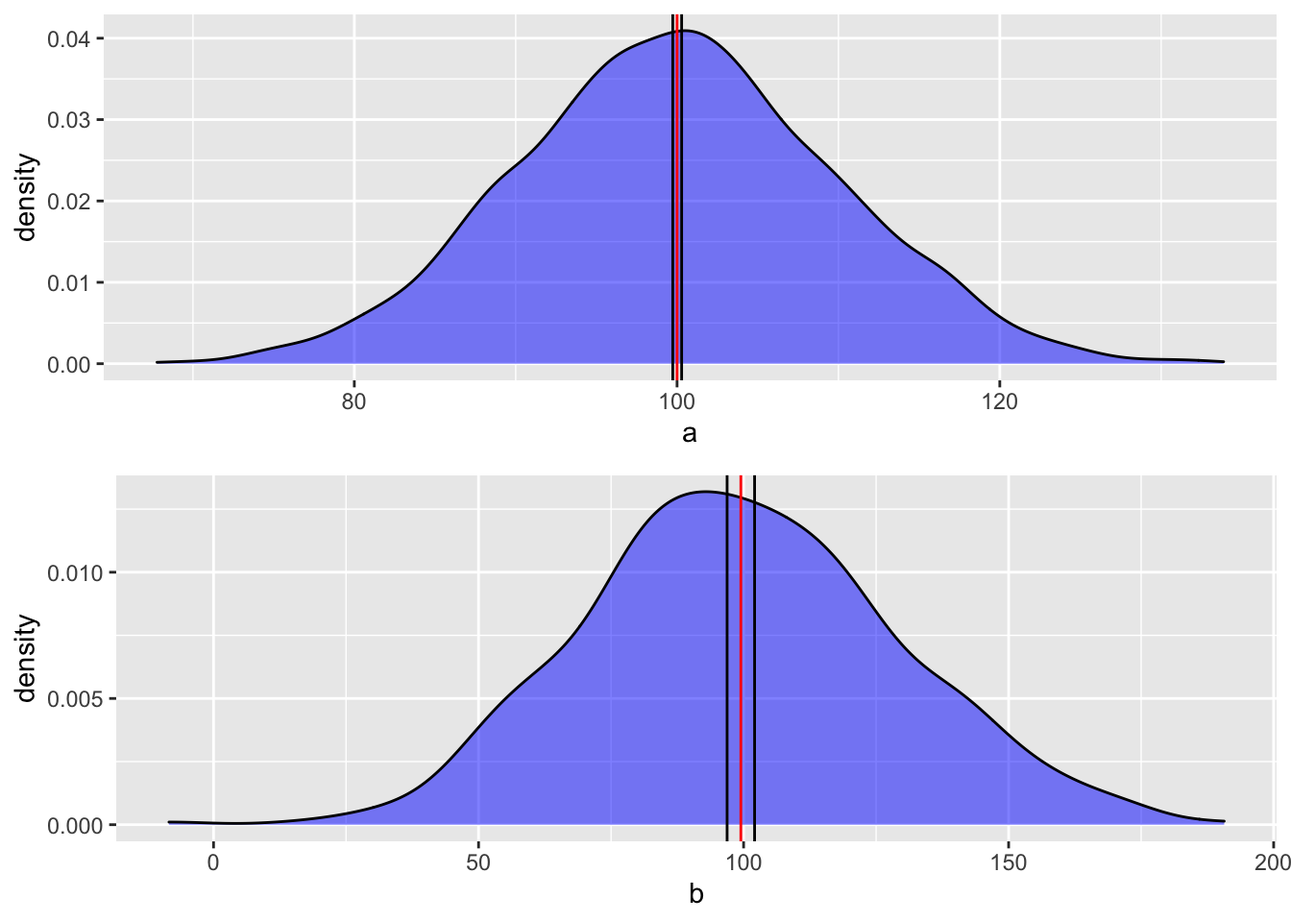
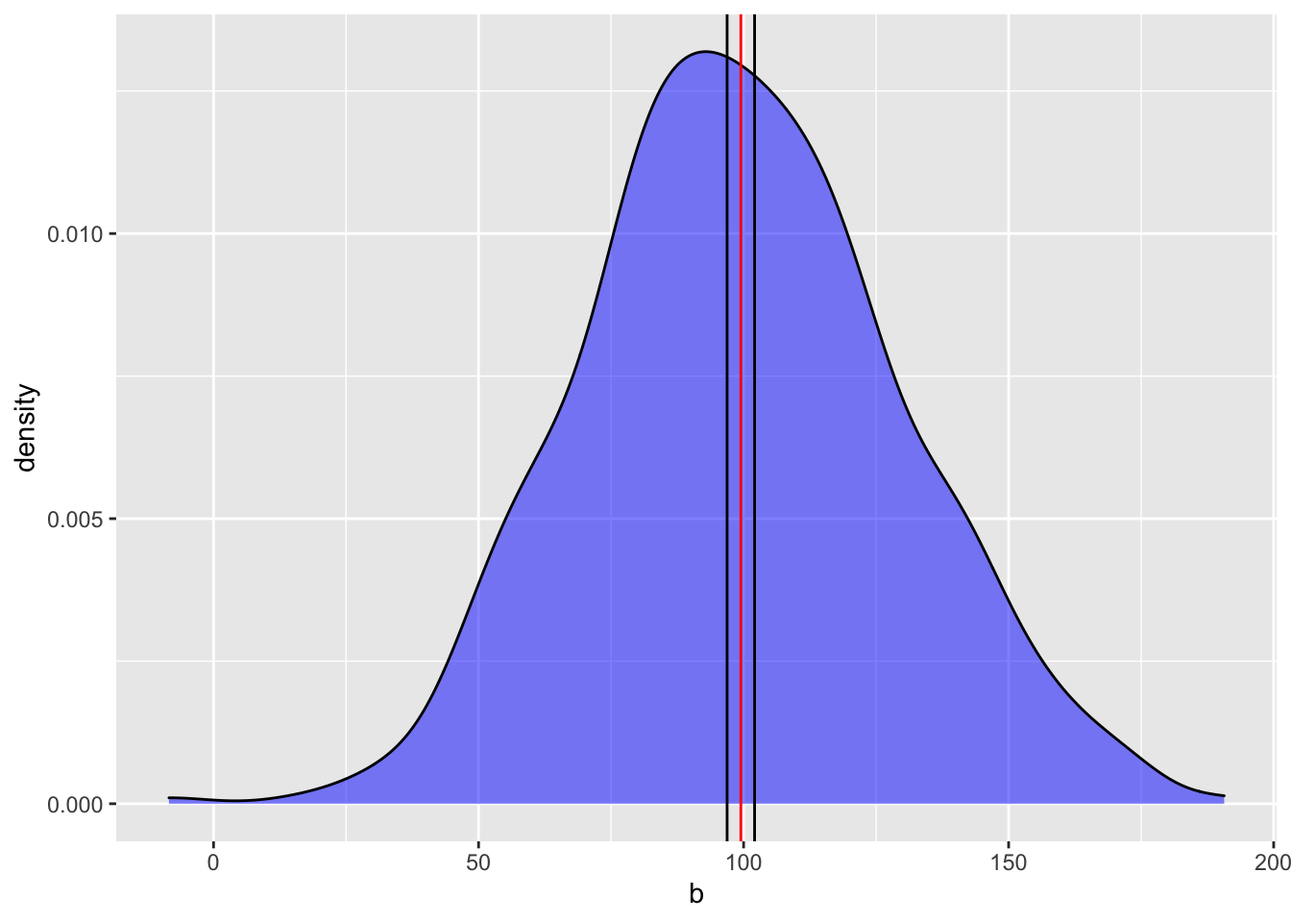
indep chunk

diff --git a/T4_Medidas_dispersión.html b/T4_Medidas_dispersión.html
@@ -891,7 +891,8 @@ El proceso de Investigación
 <span id="cb58-4"><a href="#cb58-4"></a><span class="st">  </span><span class="kw">geom_vline</span>(<span class="kw">aes</span>(<span class="dt">xintercept =</span> <span class="dv">100</span>), <span class="dt">colour=</span><span class="st">&quot;red&quot;</span>)<span class="op">+</span></span>
 <span id="cb58-5"><a href="#cb58-5"></a><span class="st">  </span><span class="kw">geom_vline</span>(<span class="kw">aes</span>(<span class="dt">xintercept =</span> Limite_inferior_a), <span class="dt">colour=</span><span class="st">&quot;black&quot;</span>)<span class="op">+</span></span>
 <span id="cb58-6"><a href="#cb58-6"></a><span class="st">  </span><span class="kw">geom_vline</span>(<span class="kw">aes</span>(<span class="dt">xintercept =</span> Limite_superior_a), <span class="dt">colour=</span><span class="st">&quot;black&quot;</span>)</span>
-<span id="cb58-7"><a href="#cb58-7"></a><span class="co">#CIa</span></span></code></pre></div>
+<span id="cb58-7"><a href="#cb58-7"></a>CIa</span></code></pre></div>
+<p><img src="T4_Medidas_dispersio%CC%81n_files/figure-html/ch17-1.png" width="60%" /></p>
 <div class="sourceCode" id="cb59"><pre class="sourceCode r"><code class="sourceCode r"><span id="cb59-1"><a href="#cb59-1"></a>CIb=<span class="kw">ggplot</span>(b, <span class="kw">aes</span>(b))<span class="op">+</span></span>
 <span id="cb59-2"><a href="#cb59-2"></a><span class="st">  </span><span class="kw">geom_density</span>(<span class="dt">fill=</span><span class="st">&quot;blue&quot;</span>, <span class="dt">alpha=</span>.<span class="dv">5</span>)<span class="op">+</span></span>
 <span id="cb59-3"><a href="#cb59-3"></a><span class="st">  </span><span class="kw">theme</span>(<span class="dt">legend.position =</span> <span class="st">&quot;none&quot;</span>) <span class="op">+</span></span>
@@ -900,10 +901,10 @@ El proceso de Investigación
 <span id="cb59-6"><a href="#cb59-6"></a><span class="st">  </span><span class="kw">geom_vline</span>(<span class="kw">aes</span>(<span class="dt">xintercept =</span> Limite_superior_b), <span class="dt">colour=</span><span class="st">&quot;black&quot;</span>)</span>
 <span id="cb59-7"><a href="#cb59-7"></a></span>
 <span id="cb59-8"><a href="#cb59-8"></a></span>
-<span id="cb59-9"><a href="#cb59-9"></a><span class="co">#CIb</span></span>
-<span id="cb59-10"><a href="#cb59-10"></a></span>
-<span id="cb59-11"><a href="#cb59-11"></a>gridExtra<span class="op">::</span><span class="kw">grid.arrange</span>(CIa,CIb, <span class="dt">ncol=</span><span class="dv">1</span>)</span></code></pre></div>
+<span id="cb59-9"><a href="#cb59-9"></a>CIb</span></code></pre></div>
 <p><img src="T4_Medidas_dispersio%CC%81n_files/figure-html/unnamed-chunk-2-1.png" width="60%" style="display: block; margin: auto;" /></p>
+<div class="sourceCode" id="cb60"><pre class="sourceCode r"><code class="sourceCode r"><span id="cb60-1"><a href="#cb60-1"></a>gridExtra<span class="op">::</span><span class="kw">grid.arrange</span>(CIa,CIb, <span class="dt">ncol=</span><span class="dv">1</span>)</span></code></pre></div>
+<p><img src="T4_Medidas_dispersio%CC%81n_files/figure-html/unnamed-chunk-3-1.png" width="672" /></p>
 <hr />
 <div id="el-intervalos-de-confianza-de-los-datos" class="section level2">
 <h2>El intervalos de confianza de los datos</h2>
@@ -953,53 +954,53 @@ El proceso de Investigación
 <h2>El intervalo de confianza de colesterol en los Iranis</h2>
 <p>Comenzamos con evaluar el intervalo de confianza de los datos con datos teóricos. Por ejemplo el nivel de colesterol en el plasma varia en los humanos. En el siguiente articulo <em>Plasma total cholesterol level and some related factors in northern Iranian people</em>. <a href="https://www.ncbi.nlm.nih.gov/pmc/articles/PMC3783780/" class="uri">https://www.ncbi.nlm.nih.gov/pmc/articles/PMC3783780/</a></p>
 <p>Usamos los datos para las mujeres con un promedio de 196.7 y una desviación estándar de 39.11. Con estos datos asumimos que esto provienen de una distribución normal y que representa las mujeres en resto del mundo.</p>
-<div class="sourceCode" id="cb60"><pre class="sourceCode r"><code class="sourceCode r"><span id="cb60-1"><a href="#cb60-1"></a><span class="co"># Creamos un conjunto de datos para los análisis</span></span>
-<span id="cb60-2"><a href="#cb60-2"></a></span>
-<span id="cb60-3"><a href="#cb60-3"></a>Col=<span class="kw">rnorm</span>(<span class="dv">200000</span>, <span class="fl">196.7</span>, <span class="fl">39.11</span>)</span>
-<span id="cb60-4"><a href="#cb60-4"></a>Col=<span class="kw">data_frame</span>(Col)</span>
-<span id="cb60-5"><a href="#cb60-5"></a></span>
-<span id="cb60-6"><a href="#cb60-6"></a>promCol=Col<span class="op">%&gt;%</span></span>
-<span id="cb60-7"><a href="#cb60-7"></a><span class="st">  </span><span class="kw">summarise</span>(<span class="dt">Mean=</span><span class="kw">mean</span>(Col))</span>
-<span id="cb60-8"><a href="#cb60-8"></a>  </span>
-<span id="cb60-9"><a href="#cb60-9"></a>sdCol=Col<span class="op">%&gt;%</span></span>
-<span id="cb60-10"><a href="#cb60-10"></a><span class="st">  </span><span class="kw">summarise</span>(<span class="dt">sd=</span><span class="kw">sd</span>(Col))</span></code></pre></div>
-<p>Visualizar los datos: Uds conoce su nivel de colesterol total? Donde se encuentra en esta distribución? Se encuentra en el 68%? Nota que la suma de todos los porcentaje es igual a 100%.</p>
-<div class="sourceCode" id="cb61"><pre class="sourceCode r"><code class="sourceCode r"><span id="cb61-1"><a href="#cb61-1"></a><span class="kw">library</span>(grid)</span>
-<span id="cb61-2"><a href="#cb61-2"></a><span class="kw">library</span>(gtable)</span>
-<span id="cb61-3"><a href="#cb61-3"></a></span>
-<span id="cb61-4"><a href="#cb61-4"></a>lims &lt;-<span class="st"> </span><span class="kw">c</span>(<span class="dv">28</span>, <span class="dv">350</span>)</span>
+<div class="sourceCode" id="cb61"><pre class="sourceCode r"><code class="sourceCode r"><span id="cb61-1"><a href="#cb61-1"></a><span class="co"># Creamos un conjunto de datos para los análisis</span></span>
+<span id="cb61-2"><a href="#cb61-2"></a></span>
+<span id="cb61-3"><a href="#cb61-3"></a>Col=<span class="kw">rnorm</span>(<span class="dv">200000</span>, <span class="fl">196.7</span>, <span class="fl">39.11</span>)</span>
+<span id="cb61-4"><a href="#cb61-4"></a>Col=<span class="kw">data_frame</span>(Col)</span>
 <span id="cb61-5"><a href="#cb61-5"></a></span>
-<span id="cb61-6"><a href="#cb61-6"></a>breaks.major2&lt;-<span class="kw">c</span>(<span class="dv">0</span>, <span class="dv">79</span>, <span class="dv">118</span>, <span class="dv">157</span>, </span>
-<span id="cb61-7"><a href="#cb61-7"></a>                 <span class="dv">197</span>, <span class="dv">235</span>, <span class="dv">274</span>, <span class="dv">314</span>)</span>
-<span id="cb61-8"><a href="#cb61-8"></a>breaks.minor2=<span class="st"> </span><span class="kw">c</span>(<span class="dv">79</span>, <span class="dv">118</span>, <span class="dv">157</span>,<span class="dv">197</span>, </span>
-<span id="cb61-9"><a href="#cb61-9"></a>                <span class="dv">235</span>, <span class="dv">274</span>, <span class="dv">314</span>,<span class="dv">379</span>)</span>
-<span id="cb61-10"><a href="#cb61-10"></a>breaks.comb &lt;-<span class="st"> </span><span class="kw">sort</span>(<span class="kw">c</span>(breaks.major2, breaks.minor2<span class="fl">-1.0E-6</span>))</span>
-<span id="cb61-11"><a href="#cb61-11"></a>labels.comb&lt;-<span class="st"> </span><span class="kw">c</span>(<span class="dv">0</span>, <span class="dv">79</span>, <span class="st">&quot;</span><span class="ch">\n</span><span class="st">-3sd&quot;</span>, <span class="dv">118</span>, <span class="st">&quot;</span><span class="ch">\n</span><span class="st">-2sd&quot;</span>, <span class="dv">157</span>, <span class="st">&quot;</span><span class="ch">\n</span><span class="st">-1sd&quot;</span>, <span class="dv">197</span>, <span class="st">&quot;</span><span class="ch">\n</span><span class="st">promedio&quot;</span>,</span>
-<span id="cb61-12"><a href="#cb61-12"></a>                 <span class="dv">235</span>,  <span class="st">&quot;</span><span class="ch">\n</span><span class="st">+1sd&quot;</span>,<span class="dv">274</span>, <span class="st">&quot;</span><span class="ch">\n</span><span class="st">+2sd&quot;</span>, <span class="dv">314</span>,<span class="st">&quot;</span><span class="ch">\n</span><span class="st">+3sd&quot;</span>, <span class="dv">379</span>)</span>
-<span id="cb61-13"><a href="#cb61-13"></a>Col<span class="op">%&gt;%</span></span>
-<span id="cb61-14"><a href="#cb61-14"></a><span class="kw">ggplot</span>(<span class="kw">aes</span>(Col))<span class="op">+</span></span>
-<span id="cb61-15"><a href="#cb61-15"></a><span class="st">  </span><span class="kw">geom_density</span>(<span class="dt">fill=</span><span class="st">&quot;blue&quot;</span>, <span class="dt">colour=</span><span class="st">&quot;white&quot;</span>,<span class="dt">alpha=</span>.<span class="dv">5</span>)<span class="op">+</span></span>
-<span id="cb61-16"><a href="#cb61-16"></a><span class="st">  </span><span class="kw">theme</span>(<span class="dt">legend.position =</span> <span class="st">&quot;none&quot;</span>)<span class="op">+</span></span>
-<span id="cb61-17"><a href="#cb61-17"></a><span class="st">  </span><span class="kw">geom_vline</span>(<span class="dt">xintercept=</span><span class="kw">as.numeric</span>(promCol), <span class="dt">colour=</span><span class="st">&quot;black&quot;</span>)<span class="op">+</span></span>
-<span id="cb61-18"><a href="#cb61-18"></a><span class="st">  </span><span class="kw">geom_vline</span>(<span class="kw">aes</span>(<span class="dt">xintercept =</span> <span class="kw">as.numeric</span>(promCol<span class="op">-</span>sdCol)), <span class="dt">colour=</span><span class="st">&quot;blue&quot;</span>)<span class="op">+</span></span>
-<span id="cb61-19"><a href="#cb61-19"></a><span class="st">  </span><span class="kw">geom_vline</span>(<span class="kw">aes</span>(<span class="dt">xintercept =</span> <span class="kw">as.numeric</span>(promCol<span class="op">+</span>sdCol)), <span class="dt">colour=</span><span class="st">&quot;blue&quot;</span>)<span class="op">+</span></span>
-<span id="cb61-20"><a href="#cb61-20"></a><span class="kw">geom_vline</span>(<span class="kw">aes</span>(<span class="dt">xintercept =</span> <span class="kw">as.numeric</span>(promCol<span class="dv">-2</span><span class="op">*</span>sdCol)), <span class="dt">colour=</span><span class="st">&quot;red&quot;</span>)<span class="op">+</span></span>
-<span id="cb61-21"><a href="#cb61-21"></a><span class="st">  </span><span class="kw">geom_vline</span>(<span class="kw">aes</span>(<span class="dt">xintercept =</span> <span class="kw">as.numeric</span>(promCol<span class="op">+</span><span class="dv">2</span><span class="op">*</span>sdCol)), <span class="dt">colour=</span><span class="st">&quot;red&quot;</span>)<span class="op">+</span></span>
-<span id="cb61-22"><a href="#cb61-22"></a><span class="kw">geom_vline</span>(<span class="kw">aes</span>(<span class="dt">xintercept =</span> <span class="kw">as.numeric</span>(promCol<span class="dv">-3</span><span class="op">*</span>sdCol)), <span class="dt">colour=</span><span class="st">&quot;orange&quot;</span>)<span class="op">+</span></span>
-<span id="cb61-23"><a href="#cb61-23"></a><span class="st">  </span><span class="kw">geom_vline</span>(<span class="kw">aes</span>(<span class="dt">xintercept =</span> <span class="kw">as.numeric</span>(promCol<span class="op">+</span><span class="dv">3</span><span class="op">*</span>sdCol)), <span class="dt">colour=</span><span class="st">&quot;orange&quot;</span>)<span class="op">+</span><span class="st"> </span><span class="kw">scale_x_continuous</span>(<span class="dt">expand=</span><span class="kw">c</span>(<span class="dv">0</span>,<span class="dv">0</span>), <span class="dt">limit=</span>lims, </span>
-<span id="cb61-24"><a href="#cb61-24"></a>                                <span class="dt">minor_breaks=</span>breaks.minor2, </span>
-<span id="cb61-25"><a href="#cb61-25"></a>                                <span class="dt">breaks=</span>breaks.comb,</span>
-<span id="cb61-26"><a href="#cb61-26"></a>                                <span class="dt">labels=</span>labels.comb)<span class="op">+</span></span>
-<span id="cb61-27"><a href="#cb61-27"></a><span class="st">  </span><span class="kw">xlab</span>(<span class="st">&quot;Nivel de colesterol&quot;</span>)<span class="op">+</span></span>
-<span id="cb61-28"><a href="#cb61-28"></a><span class="st">  </span><span class="kw">annotate</span>(<span class="st">&quot;text&quot;</span>, <span class="dt">x=</span><span class="dv">180</span>, <span class="dt">y =</span> <span class="fl">.004</span>, <span class="dt">label=</span><span class="st">&quot;34.1%&quot;</span>)<span class="op">+</span></span>
-<span id="cb61-29"><a href="#cb61-29"></a><span class="st">  </span><span class="kw">annotate</span>(<span class="st">&quot;text&quot;</span>, <span class="dt">x=</span><span class="dv">210</span>, <span class="dt">y =</span> <span class="fl">.004</span>, <span class="dt">label=</span><span class="st">&quot;34.1%&quot;</span>)<span class="op">+</span></span>
-<span id="cb61-30"><a href="#cb61-30"></a><span class="st">  </span><span class="kw">annotate</span>(<span class="st">&quot;text&quot;</span>, <span class="dt">x=</span><span class="dv">140</span>, <span class="dt">y =</span> <span class="fl">.002</span>, <span class="dt">label=</span><span class="st">&quot;13.6%&quot;</span>)<span class="op">+</span></span>
-<span id="cb61-31"><a href="#cb61-31"></a><span class="st">  </span><span class="kw">annotate</span>(<span class="st">&quot;text&quot;</span>, <span class="dt">x=</span><span class="dv">250</span>, <span class="dt">y =</span> <span class="fl">.002</span>, <span class="dt">label=</span><span class="st">&quot;13.6%&quot;</span>)<span class="op">+</span></span>
-<span id="cb61-32"><a href="#cb61-32"></a><span class="st">  </span><span class="kw">annotate</span>(<span class="st">&quot;text&quot;</span>, <span class="dt">x=</span><span class="dv">90</span>, <span class="dt">y =</span> <span class="fl">.001</span>, <span class="dt">label=</span><span class="st">&quot;2.1%&quot;</span>)<span class="op">+</span></span>
-<span id="cb61-33"><a href="#cb61-33"></a><span class="st">  </span><span class="kw">annotate</span>(<span class="st">&quot;text&quot;</span>, <span class="dt">x=</span><span class="dv">295</span>, <span class="dt">y =</span> <span class="fl">.001</span>, <span class="dt">label=</span><span class="st">&quot;2.1%&quot;</span>)<span class="op">+</span></span>
-<span id="cb61-34"><a href="#cb61-34"></a><span class="st">  </span><span class="kw">annotate</span>(<span class="st">&quot;text&quot;</span>, <span class="dt">x=</span><span class="dv">70</span>, <span class="dt">y =</span> <span class="fl">.0005</span>, <span class="dt">label=</span><span class="st">&quot;0.1%&quot;</span>)<span class="op">+</span></span>
-<span id="cb61-35"><a href="#cb61-35"></a><span class="st">  </span><span class="kw">annotate</span>(<span class="st">&quot;text&quot;</span>, <span class="dt">x=</span><span class="dv">330</span>, <span class="dt">y =</span> <span class="fl">.0005</span>, <span class="dt">label=</span><span class="st">&quot;0.1%&quot;</span>)</span></code></pre></div>
-<p><img src="T4_Medidas_dispersio%CC%81n_files/figure-html/unnamed-chunk-4-1.png" width="60%" /></p>
+<span id="cb61-6"><a href="#cb61-6"></a>promCol=Col<span class="op">%&gt;%</span></span>
+<span id="cb61-7"><a href="#cb61-7"></a><span class="st">  </span><span class="kw">summarise</span>(<span class="dt">Mean=</span><span class="kw">mean</span>(Col))</span>
+<span id="cb61-8"><a href="#cb61-8"></a>  </span>
+<span id="cb61-9"><a href="#cb61-9"></a>sdCol=Col<span class="op">%&gt;%</span></span>
+<span id="cb61-10"><a href="#cb61-10"></a><span class="st">  </span><span class="kw">summarise</span>(<span class="dt">sd=</span><span class="kw">sd</span>(Col))</span></code></pre></div>
+<p>Visualizar los datos: Uds conoce su nivel de colesterol total? Donde se encuentra en esta distribución? Se encuentra en el 68%? Nota que la suma de todos los porcentaje es igual a 100%.</p>
+<div class="sourceCode" id="cb62"><pre class="sourceCode r"><code class="sourceCode r"><span id="cb62-1"><a href="#cb62-1"></a><span class="kw">library</span>(grid)</span>
+<span id="cb62-2"><a href="#cb62-2"></a><span class="kw">library</span>(gtable)</span>
+<span id="cb62-3"><a href="#cb62-3"></a></span>
+<span id="cb62-4"><a href="#cb62-4"></a>lims &lt;-<span class="st"> </span><span class="kw">c</span>(<span class="dv">28</span>, <span class="dv">350</span>)</span>
+<span id="cb62-5"><a href="#cb62-5"></a></span>
+<span id="cb62-6"><a href="#cb62-6"></a>breaks.major2&lt;-<span class="kw">c</span>(<span class="dv">0</span>, <span class="dv">79</span>, <span class="dv">118</span>, <span class="dv">157</span>, </span>
+<span id="cb62-7"><a href="#cb62-7"></a>                 <span class="dv">197</span>, <span class="dv">235</span>, <span class="dv">274</span>, <span class="dv">314</span>)</span>
+<span id="cb62-8"><a href="#cb62-8"></a>breaks.minor2=<span class="st"> </span><span class="kw">c</span>(<span class="dv">79</span>, <span class="dv">118</span>, <span class="dv">157</span>,<span class="dv">197</span>, </span>
+<span id="cb62-9"><a href="#cb62-9"></a>                <span class="dv">235</span>, <span class="dv">274</span>, <span class="dv">314</span>,<span class="dv">379</span>)</span>
+<span id="cb62-10"><a href="#cb62-10"></a>breaks.comb &lt;-<span class="st"> </span><span class="kw">sort</span>(<span class="kw">c</span>(breaks.major2, breaks.minor2<span class="fl">-1.0E-6</span>))</span>
+<span id="cb62-11"><a href="#cb62-11"></a>labels.comb&lt;-<span class="st"> </span><span class="kw">c</span>(<span class="dv">0</span>, <span class="dv">79</span>, <span class="st">&quot;</span><span class="ch">\n</span><span class="st">-3sd&quot;</span>, <span class="dv">118</span>, <span class="st">&quot;</span><span class="ch">\n</span><span class="st">-2sd&quot;</span>, <span class="dv">157</span>, <span class="st">&quot;</span><span class="ch">\n</span><span class="st">-1sd&quot;</span>, <span class="dv">197</span>, <span class="st">&quot;</span><span class="ch">\n</span><span class="st">promedio&quot;</span>,</span>
+<span id="cb62-12"><a href="#cb62-12"></a>                 <span class="dv">235</span>,  <span class="st">&quot;</span><span class="ch">\n</span><span class="st">+1sd&quot;</span>,<span class="dv">274</span>, <span class="st">&quot;</span><span class="ch">\n</span><span class="st">+2sd&quot;</span>, <span class="dv">314</span>,<span class="st">&quot;</span><span class="ch">\n</span><span class="st">+3sd&quot;</span>, <span class="dv">379</span>)</span>
+<span id="cb62-13"><a href="#cb62-13"></a>Col<span class="op">%&gt;%</span></span>
+<span id="cb62-14"><a href="#cb62-14"></a><span class="kw">ggplot</span>(<span class="kw">aes</span>(Col))<span class="op">+</span></span>
+<span id="cb62-15"><a href="#cb62-15"></a><span class="st">  </span><span class="kw">geom_density</span>(<span class="dt">fill=</span><span class="st">&quot;blue&quot;</span>, <span class="dt">colour=</span><span class="st">&quot;white&quot;</span>,<span class="dt">alpha=</span>.<span class="dv">5</span>)<span class="op">+</span></span>
+<span id="cb62-16"><a href="#cb62-16"></a><span class="st">  </span><span class="kw">theme</span>(<span class="dt">legend.position =</span> <span class="st">&quot;none&quot;</span>)<span class="op">+</span></span>
+<span id="cb62-17"><a href="#cb62-17"></a><span class="st">  </span><span class="kw">geom_vline</span>(<span class="dt">xintercept=</span><span class="kw">as.numeric</span>(promCol), <span class="dt">colour=</span><span class="st">&quot;black&quot;</span>)<span class="op">+</span></span>
+<span id="cb62-18"><a href="#cb62-18"></a><span class="st">  </span><span class="kw">geom_vline</span>(<span class="kw">aes</span>(<span class="dt">xintercept =</span> <span class="kw">as.numeric</span>(promCol<span class="op">-</span>sdCol)), <span class="dt">colour=</span><span class="st">&quot;blue&quot;</span>)<span class="op">+</span></span>
+<span id="cb62-19"><a href="#cb62-19"></a><span class="st">  </span><span class="kw">geom_vline</span>(<span class="kw">aes</span>(<span class="dt">xintercept =</span> <span class="kw">as.numeric</span>(promCol<span class="op">+</span>sdCol)), <span class="dt">colour=</span><span class="st">&quot;blue&quot;</span>)<span class="op">+</span></span>
+<span id="cb62-20"><a href="#cb62-20"></a><span class="kw">geom_vline</span>(<span class="kw">aes</span>(<span class="dt">xintercept =</span> <span class="kw">as.numeric</span>(promCol<span class="dv">-2</span><span class="op">*</span>sdCol)), <span class="dt">colour=</span><span class="st">&quot;red&quot;</span>)<span class="op">+</span></span>
+<span id="cb62-21"><a href="#cb62-21"></a><span class="st">  </span><span class="kw">geom_vline</span>(<span class="kw">aes</span>(<span class="dt">xintercept =</span> <span class="kw">as.numeric</span>(promCol<span class="op">+</span><span class="dv">2</span><span class="op">*</span>sdCol)), <span class="dt">colour=</span><span class="st">&quot;red&quot;</span>)<span class="op">+</span></span>
+<span id="cb62-22"><a href="#cb62-22"></a><span class="kw">geom_vline</span>(<span class="kw">aes</span>(<span class="dt">xintercept =</span> <span class="kw">as.numeric</span>(promCol<span class="dv">-3</span><span class="op">*</span>sdCol)), <span class="dt">colour=</span><span class="st">&quot;orange&quot;</span>)<span class="op">+</span></span>
+<span id="cb62-23"><a href="#cb62-23"></a><span class="st">  </span><span class="kw">geom_vline</span>(<span class="kw">aes</span>(<span class="dt">xintercept =</span> <span class="kw">as.numeric</span>(promCol<span class="op">+</span><span class="dv">3</span><span class="op">*</span>sdCol)), <span class="dt">colour=</span><span class="st">&quot;orange&quot;</span>)<span class="op">+</span><span class="st"> </span><span class="kw">scale_x_continuous</span>(<span class="dt">expand=</span><span class="kw">c</span>(<span class="dv">0</span>,<span class="dv">0</span>), <span class="dt">limit=</span>lims, </span>
+<span id="cb62-24"><a href="#cb62-24"></a>                                <span class="dt">minor_breaks=</span>breaks.minor2, </span>
+<span id="cb62-25"><a href="#cb62-25"></a>                                <span class="dt">breaks=</span>breaks.comb,</span>
+<span id="cb62-26"><a href="#cb62-26"></a>                                <span class="dt">labels=</span>labels.comb)<span class="op">+</span></span>
+<span id="cb62-27"><a href="#cb62-27"></a><span class="st">  </span><span class="kw">xlab</span>(<span class="st">&quot;Nivel de colesterol&quot;</span>)<span class="op">+</span></span>
+<span id="cb62-28"><a href="#cb62-28"></a><span class="st">  </span><span class="kw">annotate</span>(<span class="st">&quot;text&quot;</span>, <span class="dt">x=</span><span class="dv">180</span>, <span class="dt">y =</span> <span class="fl">.004</span>, <span class="dt">label=</span><span class="st">&quot;34.1%&quot;</span>)<span class="op">+</span></span>
+<span id="cb62-29"><a href="#cb62-29"></a><span class="st">  </span><span class="kw">annotate</span>(<span class="st">&quot;text&quot;</span>, <span class="dt">x=</span><span class="dv">210</span>, <span class="dt">y =</span> <span class="fl">.004</span>, <span class="dt">label=</span><span class="st">&quot;34.1%&quot;</span>)<span class="op">+</span></span>
+<span id="cb62-30"><a href="#cb62-30"></a><span class="st">  </span><span class="kw">annotate</span>(<span class="st">&quot;text&quot;</span>, <span class="dt">x=</span><span class="dv">140</span>, <span class="dt">y =</span> <span class="fl">.002</span>, <span class="dt">label=</span><span class="st">&quot;13.6%&quot;</span>)<span class="op">+</span></span>
+<span id="cb62-31"><a href="#cb62-31"></a><span class="st">  </span><span class="kw">annotate</span>(<span class="st">&quot;text&quot;</span>, <span class="dt">x=</span><span class="dv">250</span>, <span class="dt">y =</span> <span class="fl">.002</span>, <span class="dt">label=</span><span class="st">&quot;13.6%&quot;</span>)<span class="op">+</span></span>
+<span id="cb62-32"><a href="#cb62-32"></a><span class="st">  </span><span class="kw">annotate</span>(<span class="st">&quot;text&quot;</span>, <span class="dt">x=</span><span class="dv">90</span>, <span class="dt">y =</span> <span class="fl">.001</span>, <span class="dt">label=</span><span class="st">&quot;2.1%&quot;</span>)<span class="op">+</span></span>
+<span id="cb62-33"><a href="#cb62-33"></a><span class="st">  </span><span class="kw">annotate</span>(<span class="st">&quot;text&quot;</span>, <span class="dt">x=</span><span class="dv">295</span>, <span class="dt">y =</span> <span class="fl">.001</span>, <span class="dt">label=</span><span class="st">&quot;2.1%&quot;</span>)<span class="op">+</span></span>
+<span id="cb62-34"><a href="#cb62-34"></a><span class="st">  </span><span class="kw">annotate</span>(<span class="st">&quot;text&quot;</span>, <span class="dt">x=</span><span class="dv">70</span>, <span class="dt">y =</span> <span class="fl">.0005</span>, <span class="dt">label=</span><span class="st">&quot;0.1%&quot;</span>)<span class="op">+</span></span>
+<span id="cb62-35"><a href="#cb62-35"></a><span class="st">  </span><span class="kw">annotate</span>(<span class="st">&quot;text&quot;</span>, <span class="dt">x=</span><span class="dv">330</span>, <span class="dt">y =</span> <span class="fl">.0005</span>, <span class="dt">label=</span><span class="st">&quot;0.1%&quot;</span>)</span></code></pre></div>
+<p><img src="T4_Medidas_dispersio%CC%81n_files/figure-html/unnamed-chunk-5-1.png" width="60%" /></p>
 <hr />
 </div>
 <div id="otro-ejemplo-de-los-intevalos-de-confianzas" class="section level2">
@@ -1007,9 +1008,9 @@ El proceso de Investigación
 <div id="la-altura-de-los-humanos" class="section level3">
 <h3>La altura de los humanos</h3>
 <p>Para evaluar el 95% de intervalo de confianza usaremos datos de la alturas de 500 adultos. Estos datos fueron bajado del siguiente website. Están disponible en debajo la pestaña de “Los Datos”. <a href="https://www.kaggle.com/yersever/500-person-gender-height-weight-bodymassindex/data" class="uri">https://www.kaggle.com/yersever/500-person-gender-height-weight-bodymassindex/data</a></p>
-<div class="sourceCode" id="cb62"><pre class="sourceCode r"><code class="sourceCode r"><span id="cb62-1"><a href="#cb62-1"></a><span class="kw">library</span>(readr)</span>
-<span id="cb62-2"><a href="#cb62-2"></a>Alturas_Humanos &lt;-<span class="st"> </span><span class="kw">read_csv</span>(<span class="st">&quot;Data_files_csv/Alturas_Humanos.csv&quot;</span>)</span>
-<span id="cb62-3"><a href="#cb62-3"></a><span class="kw">gt</span>(<span class="kw">head</span>(Alturas_Humanos))</span></code></pre></div>
+<div class="sourceCode" id="cb63"><pre class="sourceCode r"><code class="sourceCode r"><span id="cb63-1"><a href="#cb63-1"></a><span class="kw">library</span>(readr)</span>
+<span id="cb63-2"><a href="#cb63-2"></a>Alturas_Humanos &lt;-<span class="st"> </span><span class="kw">read_csv</span>(<span class="st">&quot;Data_files_csv/Alturas_Humanos.csv&quot;</span>)</span>
+<span id="cb63-3"><a href="#cb63-3"></a><span class="kw">gt</span>(<span class="kw">head</span>(Alturas_Humanos))</span></code></pre></div>
 <style>html {
   font-family: -apple-system, BlinkMacSystemFont, 'Segoe UI', Roboto, Oxygen, Ubuntu, Cantarell, 'Helvetica Neue', 'Fira Sans', 'Droid Sans', Arial, sans-serif;
 }
@@ -1391,8 +1392,8 @@ El proceso de Investigación
   
 </table></div>
 <p>Calculamos los promedios y las desviación estándar para añadirlos al gráfico</p>
-<div class="sourceCode" id="cb63"><pre class="sourceCode r"><code class="sourceCode r"><span id="cb63-1"><a href="#cb63-1"></a><span class="kw">library</span>(tidyverse)</span>
-<span id="cb63-2"><a href="#cb63-2"></a><span class="kw">head</span>(Alturas_Humanos)</span></code></pre></div>
+<div class="sourceCode" id="cb64"><pre class="sourceCode r"><code class="sourceCode r"><span id="cb64-1"><a href="#cb64-1"></a><span class="kw">library</span>(tidyverse)</span>
+<span id="cb64-2"><a href="#cb64-2"></a><span class="kw">head</span>(Alturas_Humanos)</span></code></pre></div>
 <pre><code>## # A tibble: 6 x 3
 ##   Genero  Altura_cm Peso_kg
 ##   &lt;chr&gt;       &lt;dbl&gt;   &lt;dbl&gt;
@@ -1402,52 +1403,52 @@ El proceso de Investigación
 ## 4 Mujer         195     104
 ## 5 Hombres       149      61
 ## 6 Hombres       189     104</code></pre>
-<div class="sourceCode" id="cb65"><pre class="sourceCode r"><code class="sourceCode r"><span id="cb65-1"><a href="#cb65-1"></a><span class="kw">length</span>(Alturas_Humanos<span class="op">$</span>Genero)</span></code></pre></div>
+<div class="sourceCode" id="cb66"><pre class="sourceCode r"><code class="sourceCode r"><span id="cb66-1"><a href="#cb66-1"></a><span class="kw">length</span>(Alturas_Humanos<span class="op">$</span>Genero)</span></code></pre></div>
 <pre><code>## [1] 500</code></pre>
-<div class="sourceCode" id="cb67"><pre class="sourceCode r"><code class="sourceCode r"><span id="cb67-1"><a href="#cb67-1"></a><span class="co"># Parametros para las Mujeres</span></span>
-<span id="cb67-2"><a href="#cb67-2"></a>promM=Alturas_Humanos<span class="op">%&gt;%</span></span>
-<span id="cb67-3"><a href="#cb67-3"></a><span class="st">  </span>dplyr<span class="op">::</span><span class="kw">select</span>(Genero, Altura_cm)<span class="op">%&gt;%</span></span>
-<span id="cb67-4"><a href="#cb67-4"></a><span class="st">  </span><span class="kw">filter</span>(Genero<span class="op">==</span><span class="st">&quot;Mujer&quot;</span>)<span class="op">%&gt;%</span></span>
-<span id="cb67-5"><a href="#cb67-5"></a><span class="st">  </span><span class="kw">summarise</span>(<span class="dt">MeanM=</span><span class="kw">mean</span>(Altura_cm))</span>
-<span id="cb67-6"><a href="#cb67-6"></a>promM </span></code></pre></div>
+<div class="sourceCode" id="cb68"><pre class="sourceCode r"><code class="sourceCode r"><span id="cb68-1"><a href="#cb68-1"></a><span class="co"># Parametros para las Mujeres</span></span>
+<span id="cb68-2"><a href="#cb68-2"></a>promM=Alturas_Humanos<span class="op">%&gt;%</span></span>
+<span id="cb68-3"><a href="#cb68-3"></a><span class="st">  </span>dplyr<span class="op">::</span><span class="kw">select</span>(Genero, Altura_cm)<span class="op">%&gt;%</span></span>
+<span id="cb68-4"><a href="#cb68-4"></a><span class="st">  </span><span class="kw">filter</span>(Genero<span class="op">==</span><span class="st">&quot;Mujer&quot;</span>)<span class="op">%&gt;%</span></span>
+<span id="cb68-5"><a href="#cb68-5"></a><span class="st">  </span><span class="kw">summarise</span>(<span class="dt">MeanM=</span><span class="kw">mean</span>(Altura_cm))</span>
+<span id="cb68-6"><a href="#cb68-6"></a>promM </span></code></pre></div>
 <pre><code>## # A tibble: 1 x 1
 ##   MeanM
 ##   &lt;dbl&gt;
 ## 1  170.</code></pre>
-<div class="sourceCode" id="cb69"><pre class="sourceCode r"><code class="sourceCode r"><span id="cb69-1"><a href="#cb69-1"></a>sdM=Alturas_Humanos<span class="op">%&gt;%</span></span>
-<span id="cb69-2"><a href="#cb69-2"></a><span class="st">  </span>dplyr<span class="op">::</span><span class="kw">select</span>(Genero, Altura_cm)<span class="op">%&gt;%</span></span>
-<span id="cb69-3"><a href="#cb69-3"></a><span class="st">  </span><span class="kw">filter</span>(Genero<span class="op">==</span><span class="st">&quot;Mujer&quot;</span>)<span class="op">%&gt;%</span></span>
-<span id="cb69-4"><a href="#cb69-4"></a><span class="st">  </span><span class="kw">summarise</span>(<span class="dt">sd=</span><span class="kw">sd</span>(Altura_cm))</span>
-<span id="cb69-5"><a href="#cb69-5"></a> sdM </span></code></pre></div>
+<div class="sourceCode" id="cb70"><pre class="sourceCode r"><code class="sourceCode r"><span id="cb70-1"><a href="#cb70-1"></a>sdM=Alturas_Humanos<span class="op">%&gt;%</span></span>
+<span id="cb70-2"><a href="#cb70-2"></a><span class="st">  </span>dplyr<span class="op">::</span><span class="kw">select</span>(Genero, Altura_cm)<span class="op">%&gt;%</span></span>
+<span id="cb70-3"><a href="#cb70-3"></a><span class="st">  </span><span class="kw">filter</span>(Genero<span class="op">==</span><span class="st">&quot;Mujer&quot;</span>)<span class="op">%&gt;%</span></span>
+<span id="cb70-4"><a href="#cb70-4"></a><span class="st">  </span><span class="kw">summarise</span>(<span class="dt">sd=</span><span class="kw">sd</span>(Altura_cm))</span>
+<span id="cb70-5"><a href="#cb70-5"></a> sdM </span></code></pre></div>
 <pre><code>## # A tibble: 1 x 1
 ##      sd
 ##   &lt;dbl&gt;
 ## 1  15.7</code></pre>
-<div class="sourceCode" id="cb71"><pre class="sourceCode r"><code class="sourceCode r"><span id="cb71-1"><a href="#cb71-1"></a><span class="co"># Parametros para las Hombres</span></span>
-<span id="cb71-2"><a href="#cb71-2"></a>promH=Alturas_Humanos<span class="op">%&gt;%</span></span>
-<span id="cb71-3"><a href="#cb71-3"></a><span class="st">  </span>dplyr<span class="op">::</span><span class="kw">select</span>(Genero, Altura_cm)<span class="op">%&gt;%</span></span>
-<span id="cb71-4"><a href="#cb71-4"></a><span class="st">  </span><span class="kw">filter</span>(Genero<span class="op">==</span><span class="st">&quot;Hombres&quot;</span>)<span class="op">%&gt;%</span></span>
-<span id="cb71-5"><a href="#cb71-5"></a><span class="st">  </span><span class="kw">summarise</span>(<span class="dt">Mean=</span><span class="kw">mean</span>(Altura_cm))</span>
-<span id="cb71-6"><a href="#cb71-6"></a></span>
-<span id="cb71-7"><a href="#cb71-7"></a></span>
-<span id="cb71-8"><a href="#cb71-8"></a>sdH=Alturas_Humanos<span class="op">%&gt;%</span></span>
-<span id="cb71-9"><a href="#cb71-9"></a><span class="st">  </span>dplyr<span class="op">::</span><span class="kw">select</span>(Genero, Altura_cm)<span class="op">%&gt;%</span></span>
-<span id="cb71-10"><a href="#cb71-10"></a><span class="st">  </span><span class="kw">filter</span>(Genero<span class="op">==</span><span class="st">&quot;Hombres&quot;</span>)<span class="op">%&gt;%</span></span>
-<span id="cb71-11"><a href="#cb71-11"></a><span class="st">  </span><span class="kw">summarise</span>(<span class="dt">sd=</span><span class="kw">sd</span>(Altura_cm))</span></code></pre></div>
+<div class="sourceCode" id="cb72"><pre class="sourceCode r"><code class="sourceCode r"><span id="cb72-1"><a href="#cb72-1"></a><span class="co"># Parametros para las Hombres</span></span>
+<span id="cb72-2"><a href="#cb72-2"></a>promH=Alturas_Humanos<span class="op">%&gt;%</span></span>
+<span id="cb72-3"><a href="#cb72-3"></a><span class="st">  </span>dplyr<span class="op">::</span><span class="kw">select</span>(Genero, Altura_cm)<span class="op">%&gt;%</span></span>
+<span id="cb72-4"><a href="#cb72-4"></a><span class="st">  </span><span class="kw">filter</span>(Genero<span class="op">==</span><span class="st">&quot;Hombres&quot;</span>)<span class="op">%&gt;%</span></span>
+<span id="cb72-5"><a href="#cb72-5"></a><span class="st">  </span><span class="kw">summarise</span>(<span class="dt">Mean=</span><span class="kw">mean</span>(Altura_cm))</span>
+<span id="cb72-6"><a href="#cb72-6"></a></span>
+<span id="cb72-7"><a href="#cb72-7"></a></span>
+<span id="cb72-8"><a href="#cb72-8"></a>sdH=Alturas_Humanos<span class="op">%&gt;%</span></span>
+<span id="cb72-9"><a href="#cb72-9"></a><span class="st">  </span>dplyr<span class="op">::</span><span class="kw">select</span>(Genero, Altura_cm)<span class="op">%&gt;%</span></span>
+<span id="cb72-10"><a href="#cb72-10"></a><span class="st">  </span><span class="kw">filter</span>(Genero<span class="op">==</span><span class="st">&quot;Hombres&quot;</span>)<span class="op">%&gt;%</span></span>
+<span id="cb72-11"><a href="#cb72-11"></a><span class="st">  </span><span class="kw">summarise</span>(<span class="dt">sd=</span><span class="kw">sd</span>(Altura_cm))</span></code></pre></div>
 <p>Aquí el gráfico de la distribución de los datos con un histograma, y promedio (negro), el rango de 68% entre las barras azules y el de 95% entre las barras roja.</p>
-<div class="sourceCode" id="cb72"><pre class="sourceCode r"><code class="sourceCode r"><span id="cb72-1"><a href="#cb72-1"></a>Alturas_Humanos<span class="op">%&gt;%</span></span>
-<span id="cb72-2"><a href="#cb72-2"></a><span class="st">  </span>dplyr<span class="op">::</span><span class="kw">select</span>(Genero, Altura_cm)<span class="op">%&gt;%</span></span>
-<span id="cb72-3"><a href="#cb72-3"></a><span class="st">  </span><span class="kw">filter</span>(Genero<span class="op">==</span><span class="st">&quot;Mujer&quot;</span>)<span class="op">%&gt;%</span></span>
-<span id="cb72-4"><a href="#cb72-4"></a><span class="kw">ggplot</span>(<span class="kw">aes</span>(Altura_cm))<span class="op">+</span></span>
-<span id="cb72-5"><a href="#cb72-5"></a><span class="st">  </span><span class="kw">geom_histogram</span>(<span class="dt">fill=</span><span class="st">&quot;blue&quot;</span>, <span class="dt">colour=</span><span class="st">&quot;yellow&quot;</span>,<span class="dt">alpha=</span>.<span class="dv">5</span>)<span class="op">+</span></span>
-<span id="cb72-6"><a href="#cb72-6"></a><span class="st">  </span><span class="kw">theme</span>(<span class="dt">legend.position =</span> <span class="st">&quot;none&quot;</span>)<span class="op">+</span></span>
-<span id="cb72-7"><a href="#cb72-7"></a><span class="st">  </span><span class="kw">geom_vline</span>(<span class="dt">xintercept=</span><span class="kw">as.numeric</span>(promM), <span class="dt">colour=</span><span class="st">&quot;black&quot;</span>)<span class="op">+</span></span>
-<span id="cb72-8"><a href="#cb72-8"></a><span class="st">  </span><span class="kw">geom_vline</span>(<span class="kw">aes</span>(<span class="dt">xintercept =</span> <span class="kw">as.numeric</span>(promM<span class="op">-</span>sdM)), <span class="dt">colour=</span><span class="st">&quot;blue&quot;</span>, <span class="dt">size=</span><span class="dv">1</span>)<span class="op">+</span></span>
-<span id="cb72-9"><a href="#cb72-9"></a><span class="st">  </span><span class="kw">geom_vline</span>(<span class="kw">aes</span>(<span class="dt">xintercept =</span> <span class="kw">as.numeric</span>(promM<span class="op">+</span>sdM)), <span class="dt">colour=</span><span class="st">&quot;blue&quot;</span>)<span class="op">+</span></span>
-<span id="cb72-10"><a href="#cb72-10"></a><span class="kw">geom_vline</span>(<span class="kw">aes</span>(<span class="dt">xintercept =</span> <span class="kw">as.numeric</span>(promM<span class="dv">-2</span><span class="op">*</span>sdM)), <span class="dt">colour=</span><span class="st">&quot;red&quot;</span>)<span class="op">+</span></span>
-<span id="cb72-11"><a href="#cb72-11"></a><span class="st">  </span><span class="kw">geom_vline</span>(<span class="kw">aes</span>(<span class="dt">xintercept =</span> <span class="kw">as.numeric</span>(promM<span class="op">+</span><span class="dv">2</span><span class="op">*</span>sdM)), <span class="dt">colour=</span><span class="st">&quot;red&quot;</span>)</span></code></pre></div>
-<p><img src="T4_Medidas_dispersio%CC%81n_files/figure-html/unnamed-chunk-7-1.png" width="60%" /></p>
-<div class="sourceCode" id="cb73"><pre class="sourceCode r"><code class="sourceCode r"><span id="cb73-1"><a href="#cb73-1"></a><span class="co">#ggsave(&quot;Alturas_Mujer.jpeg&quot;) # .png, .tiff, etc</span></span></code></pre></div>
+<div class="sourceCode" id="cb73"><pre class="sourceCode r"><code class="sourceCode r"><span id="cb73-1"><a href="#cb73-1"></a>Alturas_Humanos<span class="op">%&gt;%</span></span>
+<span id="cb73-2"><a href="#cb73-2"></a><span class="st">  </span>dplyr<span class="op">::</span><span class="kw">select</span>(Genero, Altura_cm)<span class="op">%&gt;%</span></span>
+<span id="cb73-3"><a href="#cb73-3"></a><span class="st">  </span><span class="kw">filter</span>(Genero<span class="op">==</span><span class="st">&quot;Mujer&quot;</span>)<span class="op">%&gt;%</span></span>
+<span id="cb73-4"><a href="#cb73-4"></a><span class="kw">ggplot</span>(<span class="kw">aes</span>(Altura_cm))<span class="op">+</span></span>
+<span id="cb73-5"><a href="#cb73-5"></a><span class="st">  </span><span class="kw">geom_histogram</span>(<span class="dt">fill=</span><span class="st">&quot;blue&quot;</span>, <span class="dt">colour=</span><span class="st">&quot;yellow&quot;</span>,<span class="dt">alpha=</span>.<span class="dv">5</span>)<span class="op">+</span></span>
+<span id="cb73-6"><a href="#cb73-6"></a><span class="st">  </span><span class="kw">theme</span>(<span class="dt">legend.position =</span> <span class="st">&quot;none&quot;</span>)<span class="op">+</span></span>
+<span id="cb73-7"><a href="#cb73-7"></a><span class="st">  </span><span class="kw">geom_vline</span>(<span class="dt">xintercept=</span><span class="kw">as.numeric</span>(promM), <span class="dt">colour=</span><span class="st">&quot;black&quot;</span>)<span class="op">+</span></span>
+<span id="cb73-8"><a href="#cb73-8"></a><span class="st">  </span><span class="kw">geom_vline</span>(<span class="kw">aes</span>(<span class="dt">xintercept =</span> <span class="kw">as.numeric</span>(promM<span class="op">-</span>sdM)), <span class="dt">colour=</span><span class="st">&quot;blue&quot;</span>, <span class="dt">size=</span><span class="dv">1</span>)<span class="op">+</span></span>
+<span id="cb73-9"><a href="#cb73-9"></a><span class="st">  </span><span class="kw">geom_vline</span>(<span class="kw">aes</span>(<span class="dt">xintercept =</span> <span class="kw">as.numeric</span>(promM<span class="op">+</span>sdM)), <span class="dt">colour=</span><span class="st">&quot;blue&quot;</span>)<span class="op">+</span></span>
+<span id="cb73-10"><a href="#cb73-10"></a><span class="kw">geom_vline</span>(<span class="kw">aes</span>(<span class="dt">xintercept =</span> <span class="kw">as.numeric</span>(promM<span class="dv">-2</span><span class="op">*</span>sdM)), <span class="dt">colour=</span><span class="st">&quot;red&quot;</span>)<span class="op">+</span></span>
+<span id="cb73-11"><a href="#cb73-11"></a><span class="st">  </span><span class="kw">geom_vline</span>(<span class="kw">aes</span>(<span class="dt">xintercept =</span> <span class="kw">as.numeric</span>(promM<span class="op">+</span><span class="dv">2</span><span class="op">*</span>sdM)), <span class="dt">colour=</span><span class="st">&quot;red&quot;</span>)</span></code></pre></div>
+<p><img src="T4_Medidas_dispersio%CC%81n_files/figure-html/unnamed-chunk-8-1.png" width="60%" /></p>
+<div class="sourceCode" id="cb74"><pre class="sourceCode r"><code class="sourceCode r"><span id="cb74-1"><a href="#cb74-1"></a><span class="co">#ggsave(&quot;Alturas_Mujer.jpeg&quot;) # .png, .tiff, etc</span></span></code></pre></div>
 <hr />
 </div>
 <div id="ejercicio-ahora-prepara-el-mismo-gráfico-para-los-hombres." class="section level3">
